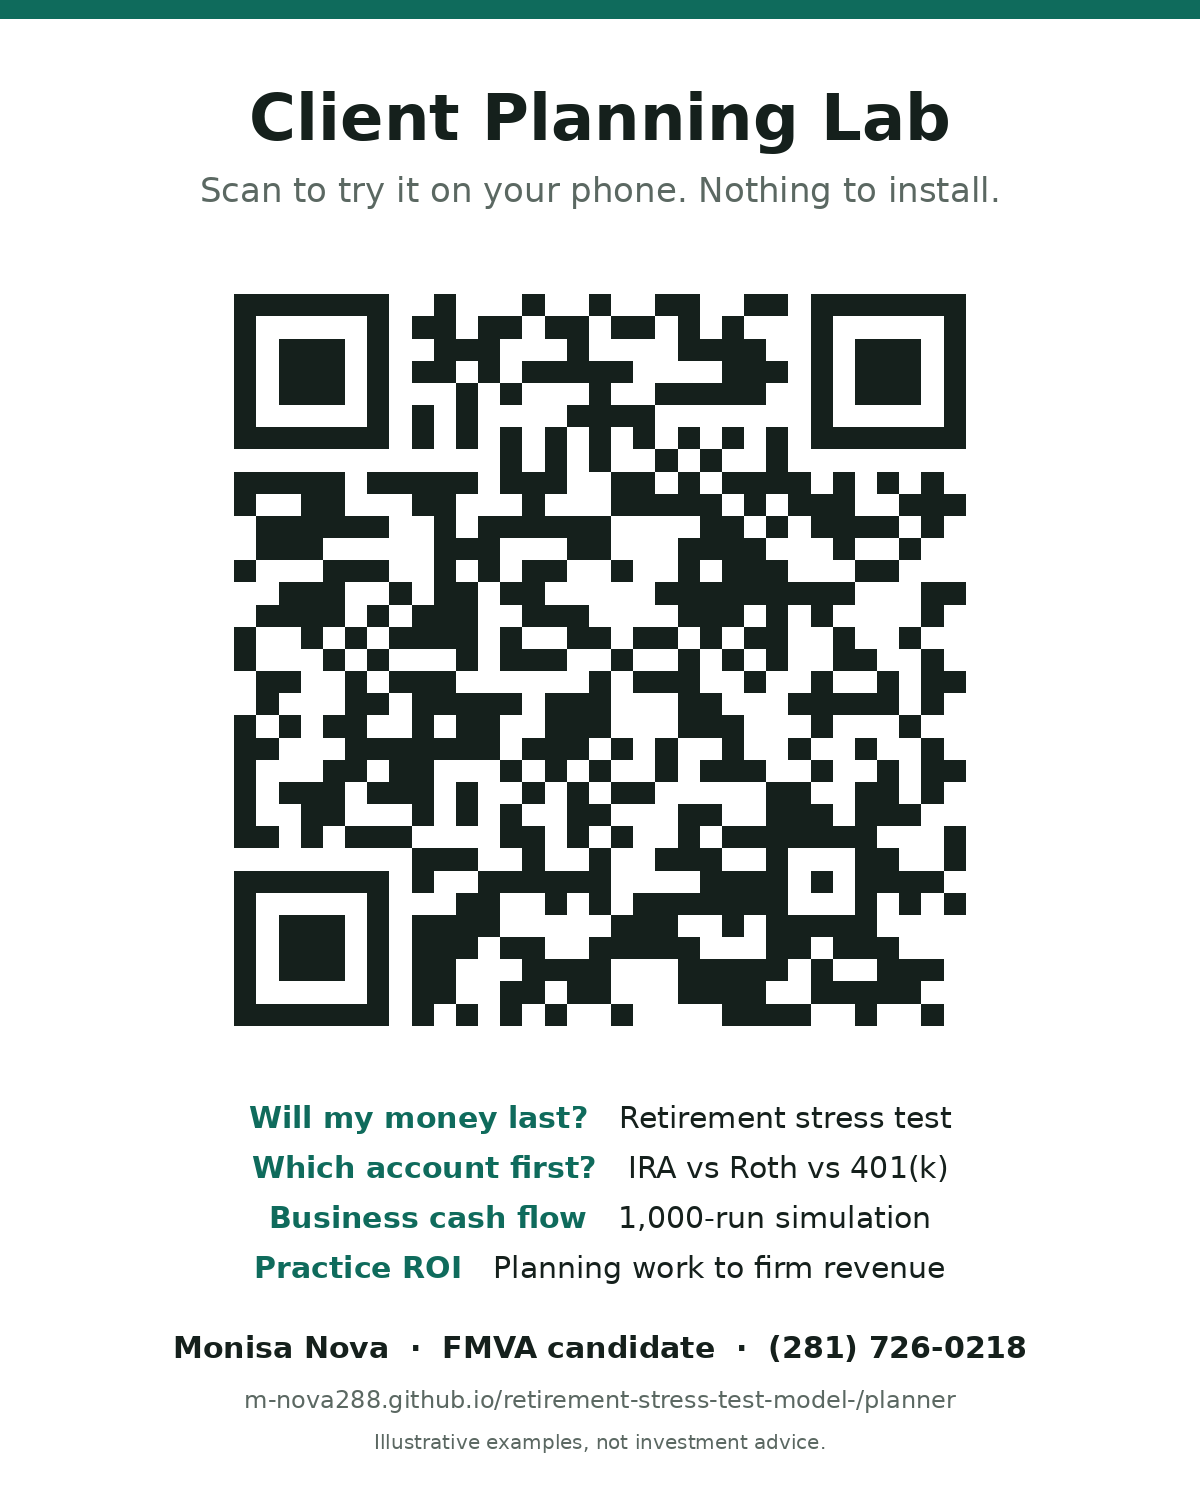
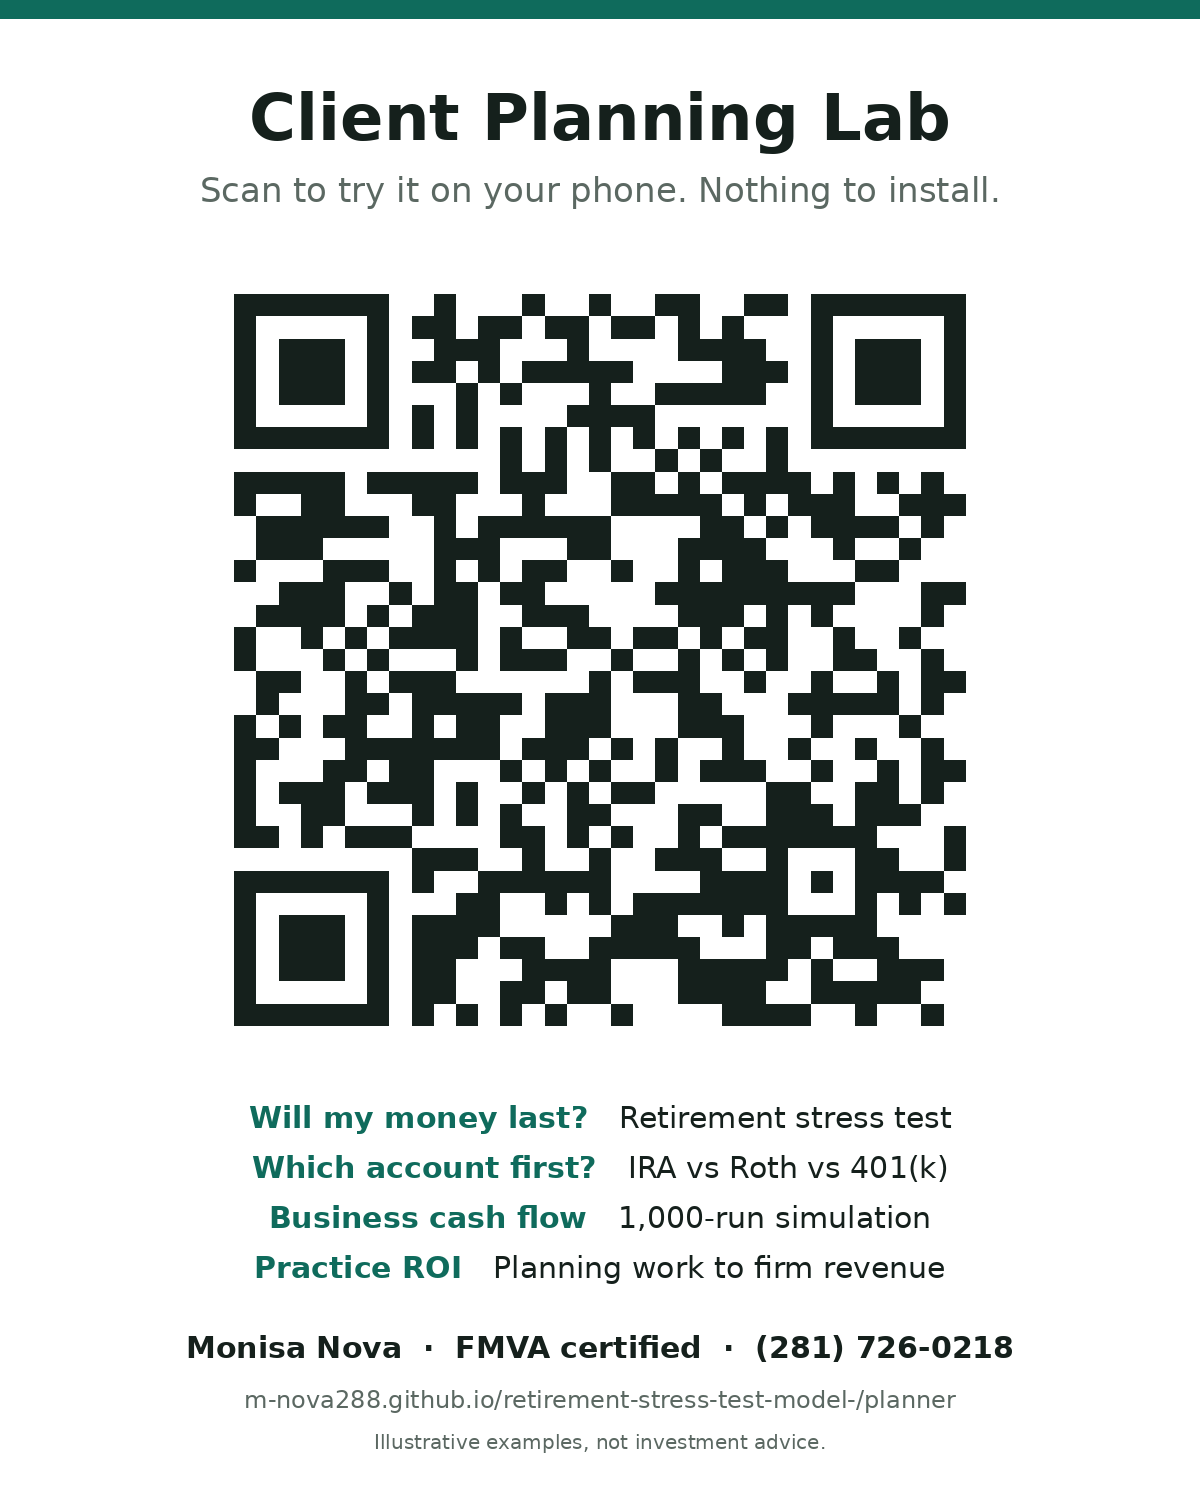
Update credential to FMVA certified

Changed region(s): [[0.6167, 0.8893, 0.8633, 0.92], [0.37, 0.8893, 0.5858, 0.92], [0.1233, 0.8893, 0.3392, 0.92]]

diff --git a/planner/index.html b/planner/index.html
@@ -103,7 +103,7 @@ footer { margin-top: 32px; font-size: 12px; color: var(--muted); max-width: 80ch
 
 <div class="wrap">
   <header class="top">
-    <span class="eyebrow">Monisa Nova · FMVA candidate</span>
+    <span class="eyebrow">Monisa Nova · FMVA certified</span>
     <h1>Client Planning Lab</h1>
     <p class="lede">Three planning questions clients ask, answered live. Move the sliders to see how each decision changes the outcome. Example figures shown; replace them with any client's numbers.</p>
   </header>
